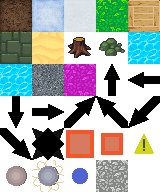
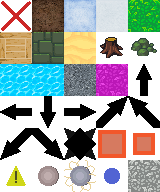
Fix missing sprites

diff --git a/src/renderers/pixiRenderer/atlas.ts b/src/renderers/pixiRenderer/atlas.ts
@@ -3,33 +3,35 @@ import { TileType } from "../../data/terrain/tile";
 export const ATLAS = "atlas";
 
 export enum AtlasTile {
-  Grass = "atlas3.png",
-  Sand = "atlas6.png",
-  Water = "atlas9.png",
-  WaterAlt = "atlas10.png",
-  Tree = "atlas7.png",
-  Rock = "atlas8.png",
-  Ice = "atlas1.png",
-  Snow = "atlas2.png",
-  Dirt = "atlas0.png",
-  Stone = "atlas11.png",
-  Spore = "atlas12.png",
-  Up = "atlas13.png",
-  Left = "atlas14.png",
-  Down = "atlas15.png",
-  Right = "atlas16.png",
-  UpRight = "atlas17.png",
-  UpLeft = "atlas18.png",
-  DownLeft = "atlas19.png",
-  DownRight = "atlas20.png",
-  Multi = "atlas21.png",
-  ActiveCoverage = "atlas22.png",
-  Coverage = "atlas23.png",
-  Alert = "atlas24.png",
-  Fence = "atlas25.png",
-  ElectricFence = "atlas26.png",
-  Entity = "atlas27.png",
-  Unknown = "atlas28.png",
+  Grass = "atlas4.png",
+  Sand = "atlas7.png",
+  Water = "atlas10.png",
+  WaterAlt = "atlas11.png",
+  Tree = "atlas8.png",
+  Rock = "atlas9.png",
+  Ice = "atlas2.png",
+  Snow = "atlas3.png",
+  Dirt = "atlas1.png",
+  Stone = "atlas12.png",
+  Spore = "atlas13.png",
+  Up = "atlas14.png",
+  Left = "atlas15.png",
+  Down = "atlas16.png",
+  Right = "atlas17.png",
+  UpRight = "atlas18.png",
+  UpLeft = "atlas19.png",
+  DownLeft = "atlas20.png",
+  DownRight = "atlas21.png",
+  Multi = "atlas22.png",
+  ActiveCoverage = "atlas23.png",
+  Coverage = "atlas24.png",
+  Alert = "atlas25.png",
+  Fence = "atlas26.png",
+  ElectricFence = "atlas27.png",
+  Entity = "atlas28.png",
+  Unknown = "atlas29.png",
+  Bridge = "atlas5.png",
+  None = "atlas0.png",
 }
 
 export const TILE_TO_ATLAS_MAP: Partial<Record<TileType, AtlasTile>> = {
@@ -43,4 +45,5 @@ export const TILE_TO_ATLAS_MAP: Partial<Record<TileType, AtlasTile>> = {
   [TileType.Rock]: AtlasTile.Rock,
   [TileType.Stone]: AtlasTile.Stone,
   [TileType.Spore]: AtlasTile.Spore,
+  [TileType.Bridge]: AtlasTile.Bridge,
 };

diff --git a/src/data/manager.ts b/src/data/manager.ts
@@ -20,7 +20,12 @@ import PowerController, {
   SPEED_BEACON_CONSUMPTION,
 } from "./powerController";
 import Surface from "./terrain/surface";
-import Tile, { DiscoveryStatus, FREE_TILES, TileType } from "./terrain/tile";
+import Tile, {
+  DiscoveryStatus,
+  FREE_TILES,
+  FREE_TILES_INCLUDING_WATER,
+  TileType,
+} from "./terrain/tile";
 import UnlocksController from "./UnlocksController";
 import SpawnAlert from "./util/spawnAlert";
 import VisibilityController from "./visibilityController";
@@ -253,7 +258,7 @@ class Manager {
       const tile = spawnGroup.getSpawnPoints()[0].getTile(0);
       const tilesToUpdate: Tile[] = [];
       this.surface.forCircle(tile.getX(), tile.getY(), 5, (tile) => {
-        if (FREE_TILES.has(tile.getType())) {
+        if (FREE_TILES_INCLUDING_WATER.has(tile.getType())) {
           tilesToUpdate.push(
             new Tile(tile.getX(), tile.getY(), TileType.Spore)
           );

diff --git a/src/renderers/pixiRenderer/overrides/blueprint.ts b/src/renderers/pixiRenderer/overrides/blueprint.ts
@@ -23,6 +23,7 @@ const BLUEPRINT_MAP = new Map<EntityType, [string, string]>([
   [EntityType.Mortar, ["mortar", "mortar0.png"]],
   [EntityType.Laser, ["laser", "laser0.png"]],
   [EntityType.Railgun, ["railgun", "railgun0.png"]],
+  [EntityType.None, [ATLAS, AtlasTile.None]],
 ]);
 
 class Blueprint extends Sprite implements EntityRenderer {
@@ -37,6 +38,10 @@ class Blueprint extends Sprite implements EntityRenderer {
 
     const [atlas, texture] = BLUEPRINT_MAP.get(type)!;
     super(loader.resources[atlas].spritesheet!.textures[texture]);
+
+    if (type === EntityType.None) {
+      this.scale.set(data.getScale());
+    }
 
     this.alpha = 0.7;
     this.position.set(
